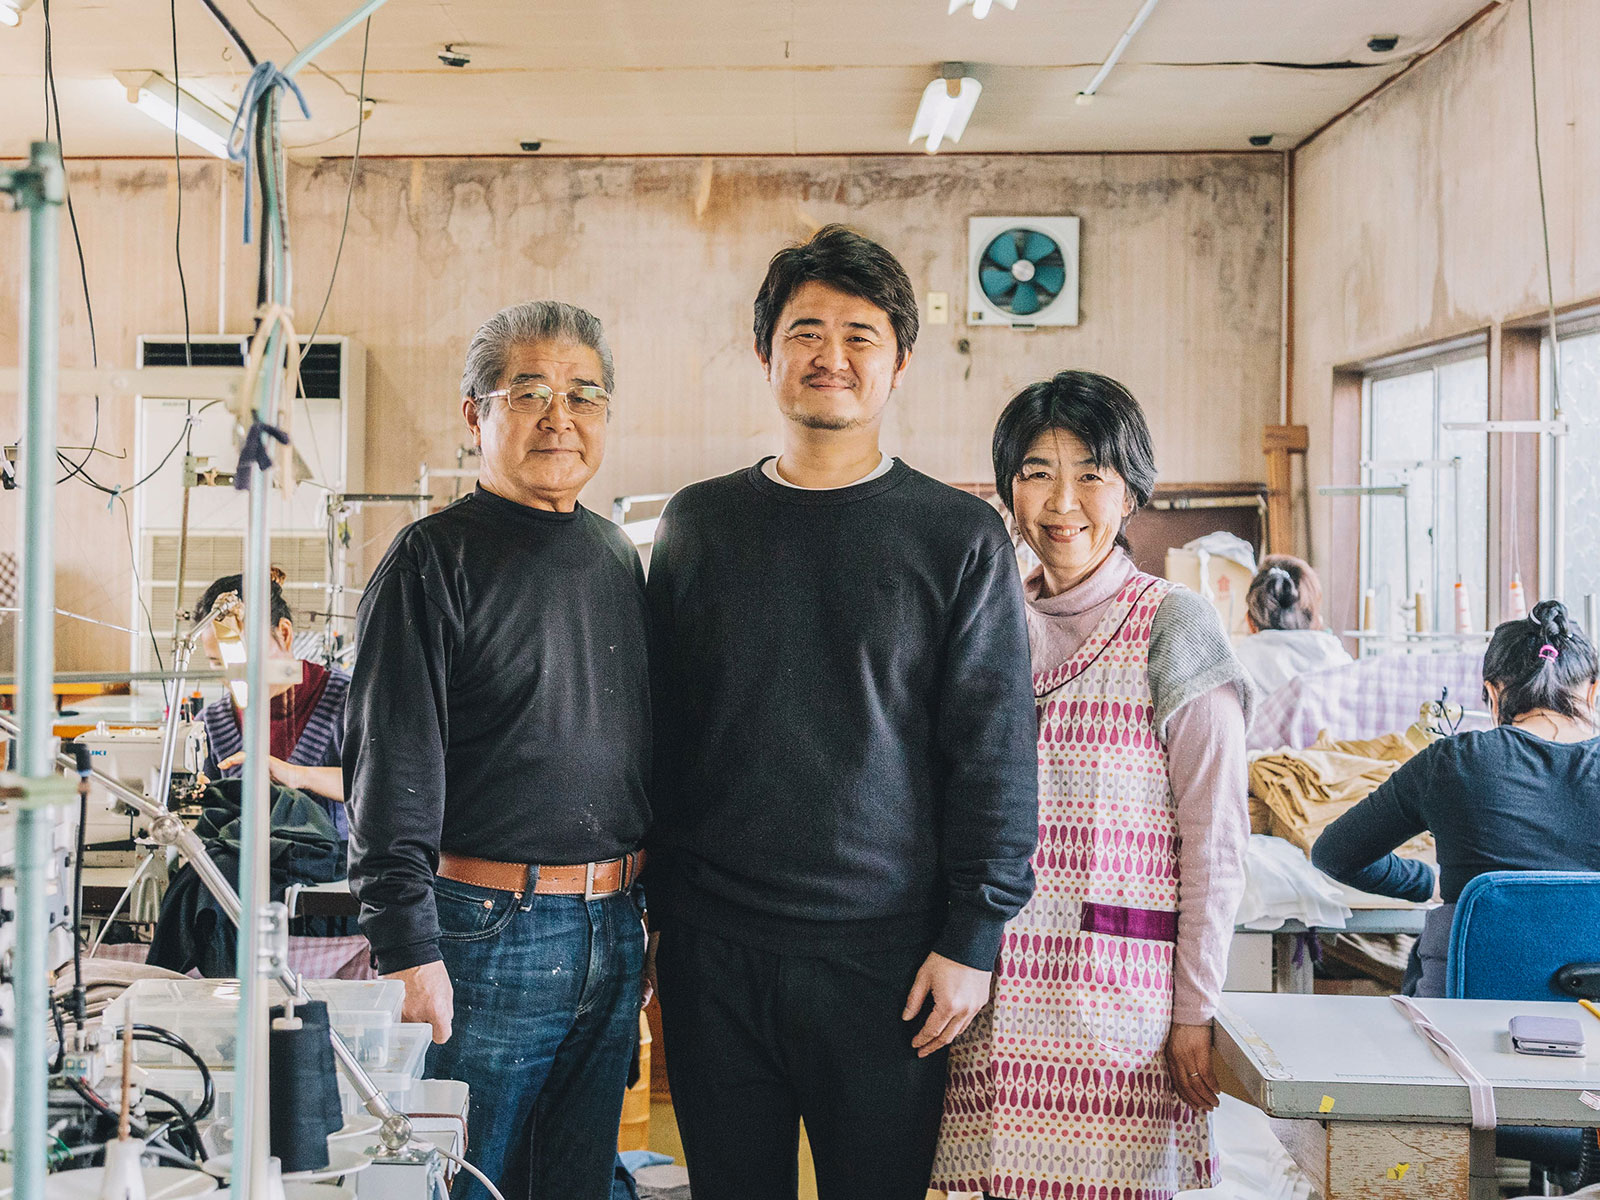
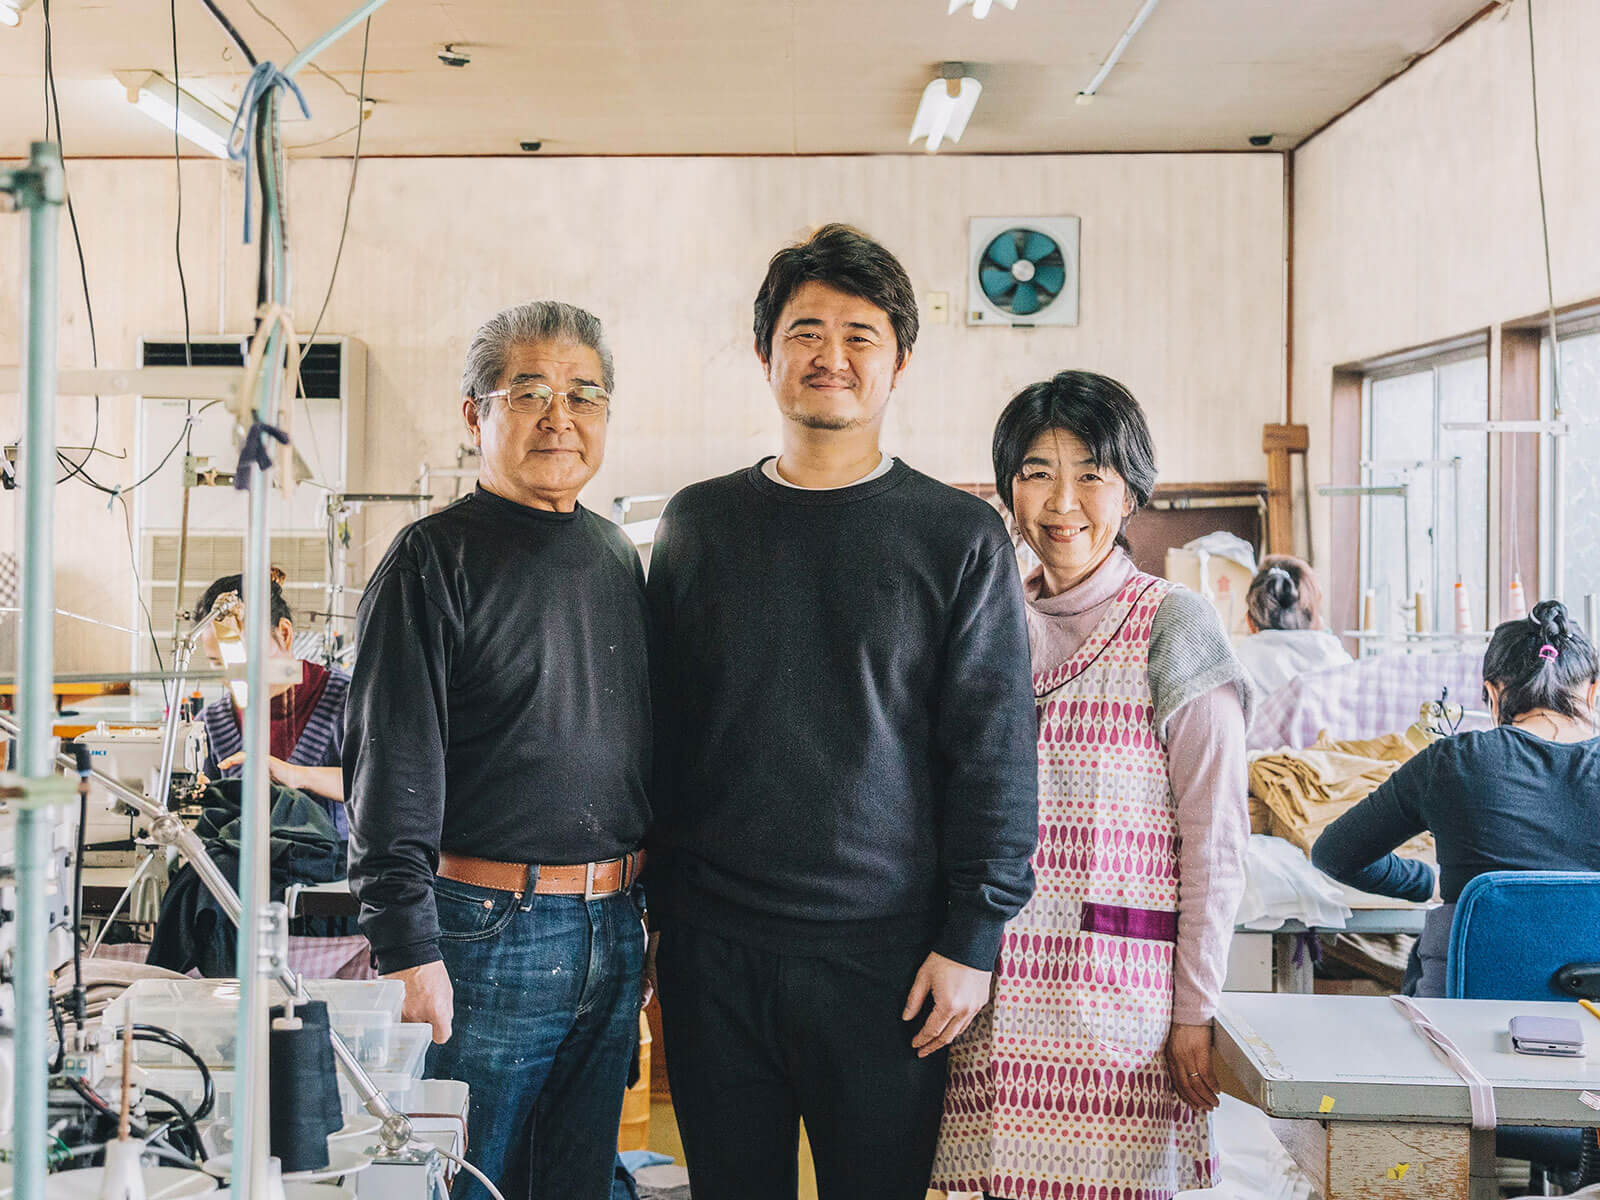
画像補正、変更

Changed region(s): [[0.0, 0.0, 1.0, 0.5858], [0.4688, 0.0308, 0.5312, 0.0617], [0.2812, 0.0308, 0.3125, 0.0617]]

diff --git a/about/index.html b/about/index.html
@@ -145,7 +145,7 @@
                                 </div>
                             </div>
                             <div class="l_col">
-                                <figure><img src="/assets/images/p_company03.jpg" alt="上野山縫工所" class="md_column__img"></figure>
+                                <figure><img src="/assets/images/p_company03_1.jpg" alt="上野山縫工所" class="md_column__img"></figure>
                             </div>
                         </article>
                     </section>
@@ -174,7 +174,7 @@
                             </li>
                             <li>
                                 <a href="/manufacturing/?id=factory">
-                                    <img src="/assets/images/gl_nav03.jpg" alt="縫製工場">
+                                    <img src="/assets/images/gl_nav03_1.jpg" alt="縫製工場">
                                     <h4 class="fz_18 fw700 md_ft__navTtl">縫製工場</h4>
                                 </a>
                             </li>

diff --git a/manufacturing/index.html b/manufacturing/index.html
@@ -190,7 +190,7 @@
                             </li>
                             <li>
                                 <a href="/manufacturing/?id=factory">
-                                    <img src="/assets/images/gl_nav03.jpg" alt="縫製工場">
+                                    <img src="/assets/images/gl_nav03_1.jpg" alt="縫製工場">
                                     <h4 class="fz_18 fw700 md_ft__navTtl">縫製工場</h4>
                                 </a>
                             </li>

diff --git a/recruit/index.html b/recruit/index.html
@@ -122,7 +122,7 @@
                             </li>
                             <li>
                                 <a href="/manufacturing/?id=factory">
-                                    <img src="/assets/images/gl_nav03.jpg" alt="縫製工場">
+                                    <img src="/assets/images/gl_nav03_1.jpg" alt="縫製工場">
                                     <h4 class="fz_18 fw700 md_ft__navTtl">縫製工場</h4>
                                 </a>
                             </li>

diff --git a/contact/index.html b/contact/index.html
@@ -90,7 +90,7 @@
                             </li>
                             <li>
                                 <a href="/manufacturing/?id=factory">
-                                    <img src="/assets/images/gl_nav03.jpg" alt="縫製工場">
+                                    <img src="/assets/images/gl_nav03_1.jpg" alt="縫製工場">
                                     <h4 class="fz_18 fw700 md_ft__navTtl">縫製工場</h4>
                                 </a>
                             </li>

diff --git a/index.html b/index.html
@@ -93,7 +93,7 @@
                             </li>
                             <li>
                                 <a href="/manufacturing/?id=factory">
-                                    <img src="/assets/images/gl_nav03.jpg" alt="縫製工場">
+                                    <img src="/assets/images/gl_nav03_1.jpg" alt="縫製工場">
                                     <h4 class="fz_18 fw700 md_ft__navTtl">縫製工場</h4>
                                 </a>
                             </li>
